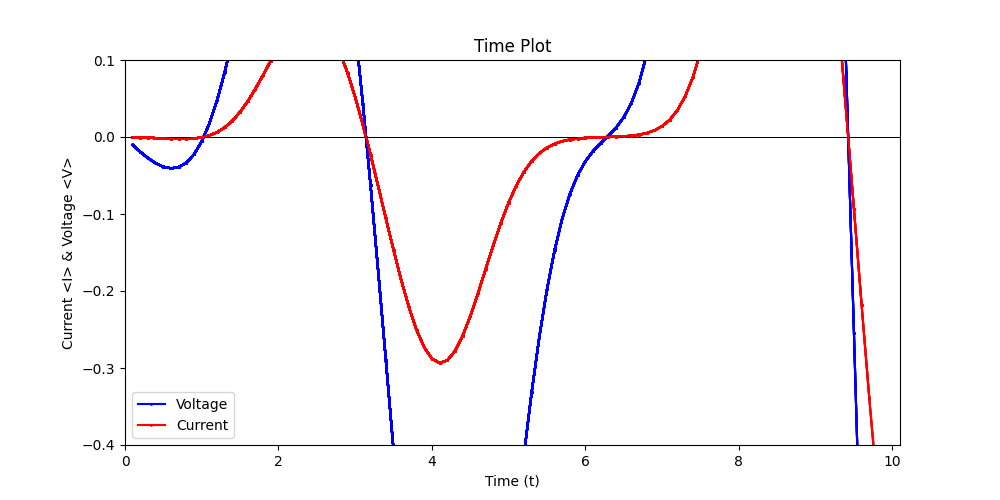
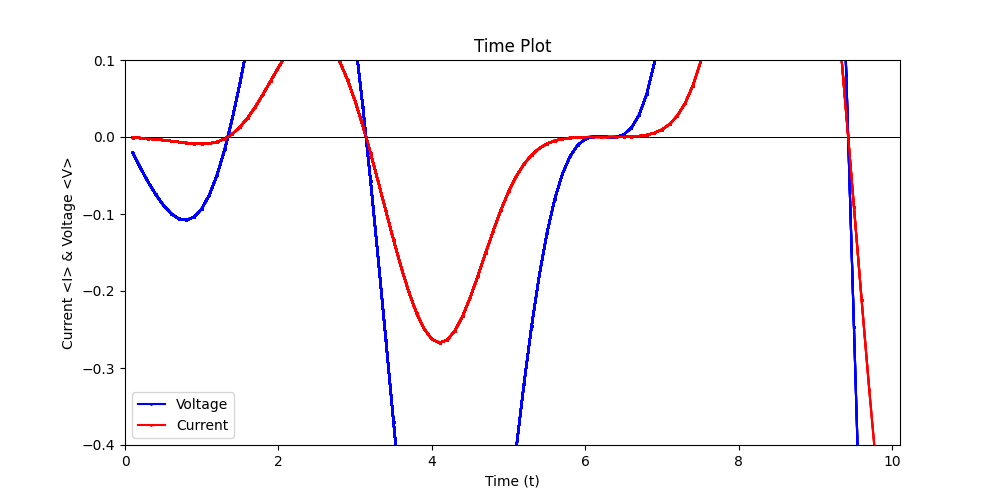
Implemented numerical simulation of dynamic single memristive dynamics

diff --git a/q_memristor/numerical/dynamic_sim.py b/q_memristor/numerical/dynamic_sim.py
@@ -9,6 +9,9 @@ import numpy as np
 
     Author: Chiara Paglioni
     Link to Article: https://link.aps.org/doi/10.1103/PhysRevApplied.18.024082  
+    
+    Experiment: 
+    Here the dynamical numerical simulation of the single memristive dynamics is implemented. 
 """
 
 
@@ -24,11 +27,10 @@ if __name__ == '__main__':
     m = 1
     h = 1
     w = 1
-    y0 = 0.2
+    y0 = 0.4
     amplitude = 1
 
-    pauli_y = np.array([[0, -1j], [1j, 0]])
-    pauli_x = np.array([[0, 1], [1, 0]])
+    pure_state = np.array([np.cos(a), np.sin(a) * np.exp(1j * b)], dtype=complex)
 
     mem = memristor(y0, w, h, m, a, b)
 
@@ -42,43 +44,53 @@ if __name__ == '__main__':
 
     t_plt = time_plot.Tplot()
 
-    for i in range(0, len(t)-1):
-        k_val = mem.k1(t[i])
+    # Initialize density matrix at time 0
+    k_val0 = mem.k1(0)
+    density_mat0 = mem.get_density_mat(k_val0)
+    schrodinger_mat0 = mem.get_Schrodinger(0, density_mat0)
+    density_states.append(density_mat0)
+    schrodinger_states.append(schrodinger_mat0)
 
-        if t[i] == 0.0:
-            density_mat = mem.get_density_mat(k_val)
-            schrodinger_mat = mem.get_Schrödinger(t[i], density_mat)
-            density_states.append(density_mat)
-            schrodinger_states.append(schrodinger_mat)
+    for i in range(1, len(t)-1):
+        k_val = mem.k(t[i], t[i+1])
 
-        else:
-            density_mat = mem.get_E0(t[i], t[i+1]) @ density_states[0] @ mem.adjoint(mem.get_E0(t[i], t[i+1])) + mem.get_E1(t[i], t[i+1]) @ density_states[0] @ mem.adjoint(mem.get_E1(t[i], t[i+1]))
-            schrodinger_mat = mem.get_Schrödinger(t[i], density_mat)
-            density_states.append(density_mat)
-            schrodinger_states.append(schrodinger_mat)
+        density_mat = mem.get_E0(t[i], t[i+1]) @ density_states[0] @ mem.adjoint(mem.get_E0(t[i], t[i+1])) + mem.get_E1(t[i], t[i+1]) @ density_states[0] @ mem.adjoint(mem.get_E1(t[i], t[i+1]))
+        pI_me = mem.master_eq_I(t[i], density_mat)
+        schrodinger_mat = mem.get_Schrodinger(t[i], density_mat)
+        p2_me = mem.master_eq_2(t[i], schrodinger_mat)
+
+        density_states.append(density_mat)
+        schrodinger_states.append(schrodinger_mat)
 
         k.append(k_val)
 
         print('Time: ', t[i])
         print('K: ', k_val)
-        print('Density Matrix: ', '\n', density_mat)
-        print('Schrodinger Picture: ', '\n', schrodinger_mat)
+        print('Density Matrix: ')
+        print('\n'.join(['\t'.join([str(cell) for cell in row]) for row in density_mat]))
+        print('Schrodinger Picture: ')
+        print('\n'.join(['\t'.join([str(cell) for cell in row]) for row in schrodinger_mat]))
+        print('p_I Master Equation: ')
+        print('\n'.join(['\t'.join([str(cell) for cell in row]) for row in pI_me]))
+        print('p_2 Master Equation: ')
+        print('\n'.join(['\t'.join([str(cell) for cell in row]) for row in p2_me]))
 
         exp_valueY = np.trace(pauli_y @ schrodinger_mat)
         exp_valueX = np.trace(pauli_x @ schrodinger_mat)
+        exp_valueZ = np.trace(pauli_z @ schrodinger_mat)
 
-        print("Expectation value Y:", exp_valueY)
-        print("Expectation value X:", exp_valueX)
+        print("Expectation value Pauli Y:", exp_valueY)
+        print("Expectation value Pauli X:", exp_valueX)
+        print("Expectation value Pauli Z:", exp_valueZ)
 
         vol_val = -(1 / 2) * np.sqrt((m * h * w) / 2) * exp_valueY
-        curr_val = np.sqrt((m * h * w) / 2) * exp_valueY - np.sqrt((m * w) / (2*h)) * exp_valueX
-        curr_temp = mem.gamma(t[i]) * vol_val
+        # curr_val = np.sqrt((m * h * w) / 2) * exp_valueY - np.sqrt((m * w) / (2*h)) * exp_valueX
+        curr_val = mem.gamma(t[i]) * vol_val
 
         V.append(vol_val)
         I.append(curr_val)
         print('V: ', V[i], ' at time: ', t[i])
         print('I: ', I[i], ' at time: ', t[i])
-        print('I: ', curr_temp, ' at time: ', t[i])
         print()
 
         t_plt.update(t[i], V[i], I[i])

diff --git a/q_memristor/numerical/test.py b/q_memristor/numerical/test.py
@@ -1,6 +1,12 @@
 from mpmath import quad
 import numpy as np
 
+"""
+    This class is only used to test the calculations of numerical simulations
+    
+    DELETE BEFORE SUBMISSION!!!
+"""
+
 
 def decay_rate(t, a):
     return -2 * np.real(c1(t, a), c1(t, a))
@@ -52,7 +58,7 @@ if __name__ == '__main__':
     pI_mat = get_density_mat(a, b, k_val0)
     ham = hamiltonian(h, w, pauli_z)
 
-    # At t = 0 the Schrodinger picture is equal to the density mat
+    # At t = 0 the Schrodinger picture is equal to the density mat ?
 
     exp_valueY = np.trace(pauli_y @ pI_mat)
     v0_val = -(1 / 2) * np.sqrt((m * h * w) / 2) * exp_valueY

diff --git a/q_memristor/numerical/mem_dynamics.py b/q_memristor/numerical/mem_dynamics.py
@@ -46,7 +46,7 @@ if __name__ == '__main__':
     I = []
 
     # Initialize V0 and I0 through the memristive equations derived from the master equation
-    V.append(-(1 / 2) * np.sqrt((m * h * w) / 2) * mem.exp_value(pauli_y2, pure_state))
+    V.append(-(1 / 2) * np.sqrt((m * h * w) / 2) * mem.exp_value(pauli_y, pure_state))
     I.append(mem.gamma(t[0]) * V[0])
     print('V: ', V[0], ' at time: ', 0.0)
     print('I: ', I[0], ' at time: ', 0.0)

diff --git a/q_memristor/numerical/operators.py b/q_memristor/numerical/operators.py
@@ -10,7 +10,7 @@ pauli_y = np.array([[0, -1j], [1j, 0]])
 
 pauli_z = np.array([[1, 0], [0, -1]])
 
-# The following are the matrix representation of the pauli matrices with the caret operator ^
+
 pauli_low2 = np.array([[0, 1], [0, 0]])
 
 pauli_ris2 = np.array([[0, 0], [1, 0]])
